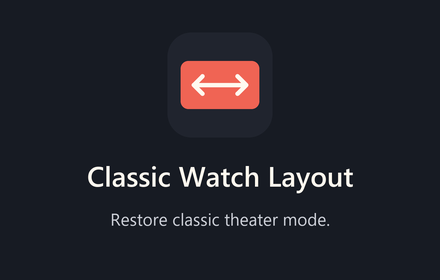
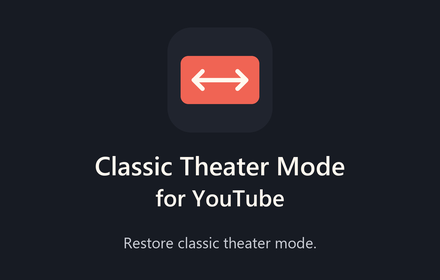
Rename extension to Classic Theater Mode for YouTube 0.1.1

diff --git a/extension/restore.js b/extension/restore.js
@@ -1,4 +1,4 @@
-/* Classic Watch Layout — local, page-lifetime layout selection only. */
+/* Classic Theater Mode for YouTube — local, page-lifetime layout selection only. */
 (() => {
   'use strict';
 

diff --git a/docs/privacy.md b/docs/privacy.md
@@ -1,10 +1,10 @@
-# Datenschutzerklärung – Classic Watch Layout
+# Datenschutzerklärung – Classic Theater Mode for YouTube
 
-**Stand: 08.10.2026 · Version 0.1.0**
+**Stand: 08.10.2026 · Version 0.1.1**
 
 ## Kurzfassung
 
-Classic Watch Layout korrigiert ausgewählte YouTube-Layoutflags lokal, damit die klassische Watch-Layout-/Theater-Auswahl wieder verwendet werden kann. Die Erweiterung verarbeitet keine Kontodaten und sendet keine Daten an den Entwickler oder an Dritte.
+Classic Theater Mode for YouTube korrigiert ausgewählte YouTube-Layoutflags lokal, damit die klassische Watch-Layout-/Theater-Auswahl wieder verwendet werden kann. Die Erweiterung verarbeitet keine Kontodaten und sendet keine Daten an den Entwickler oder an Dritte.
 
 ## Welche Daten werden verarbeitet?
 
@@ -37,4 +37,4 @@ Die Angaben im Entwickler-Dashboard müssen mit dem veröffentlichten Paket übe
 
 ## English summary
 
-Classic Watch Layout locally adjusts selected YouTube layout flags to restore the classic watch/theater layout. It does **not** collect, store, sell, or share personal data; it does not read or write cookies; it has no analytics, tracking, advertising, remote scripts, or external network requests. The only required site access is `https://www.youtube.com/*`, used to run the MV3 content script at document start. The script changes layout configuration locally and does not transmit page, account, or viewing data. Privacy and support contact: ctrwins@googlemail.com. If you contact support by email, the information you voluntarily provide is used to respond to your request, separately from the extension. YouTube, GitHub and the email provider have their own data practices.
+Classic Theater Mode for YouTube locally adjusts selected YouTube layout flags to restore the classic watch/theater layout. It does **not** collect, store, sell, or share personal data; it does not read or write cookies; it has no analytics, tracking, advertising, remote scripts, or external network requests. The only required site access is `https://www.youtube.com/*`, used to run the MV3 content script at document start. The script changes layout configuration locally and does not transmit page, account, or viewing data. Privacy and support contact: ctrwins@googlemail.com. If you contact support by email, the information you voluntarily provide is used to respond to your request, separately from the extension. YouTube, GitHub and the email provider have their own data practices.

diff --git a/docs/store-setup.md b/docs/store-setup.md
@@ -11,9 +11,11 @@ Stand: 08.10.2026. Die Erweiterung ist noch nicht im Store veröffentlicht. Entw
 - Falls noch nicht verifiziert: **Add email / Verify email** wählen und den Bestätigungslink in der E-Mail öffnen.
 - Eventuelle Hinweise zu Kontoverifizierung, Zwei-Faktor-Anmeldung oder Händlerstatus wahrheitsgemäß selbst bearbeiten. Die Registrierung allein bestätigt nicht, dass alle diese Punkte abgeschlossen sind.
 
-## 2. Neues Element / Add new item
+## 2. Paket hochladen
 
-[Erweiterungs-ZIP herunterladen](https://github.com/ctrwins/classic-watch-layout/releases/download/v0.1.0/classic-watch-layout-0.1.0.zip) und unverändert hochladen.
+[Erweiterungs-ZIP herunterladen](https://github.com/ctrwins/classic-watch-layout/releases/download/v0.1.1/classic-theater-mode-for-youtube-0.1.1.zip) und unverändert hochladen.
+
+Im bereits angelegten Store-Eintrag **Paket → Neues Paket hochladen** wählen. Name und Version werden aus dem Manifest übernommen. Keinen zweiten Eintrag für die Umbenennung anlegen. Nur bei der erstmaligen Einrichtung **Add new item** verwenden.
 
 Nicht das GitHub-Quellcodearchiv oder das Bilder-ZIP hochladen. Das richtige Paket enthält `manifest.json` direkt im Root.
 
@@ -21,7 +23,7 @@ Nicht das GitHub-Quellcodearchiv oder das Bilder-ZIP hochladen. Das richtige Pak
 
 | Feld | Eintrag |
 |---|---|
-| Name | `Classic Watch Layout` (aus dem Manifest) |
+| Name | `Classic Theater Mode for YouTube` (aus dem Manifest) |
 | Kurzbeschreibung | Aus dem Manifest; siehe unten |
 | Beschreibung / Detailed description | Den unten stehenden Satz kopieren |
 | Sprache / Language | English |
@@ -35,7 +37,7 @@ Nicht das GitHub-Quellcodearchiv oder das Bilder-ZIP hochladen. Das richtige Pak
 
 > A small extension that restores the classic theater mode for affected YouTube accounts.
 
-[Store-Bilder herunterladen](https://github.com/ctrwins/classic-watch-layout/releases/download/v0.1.0/classic-watch-layout-store-assets.zip), entpacken und einzeln zuordnen:
+[Store-Bilder herunterladen](https://github.com/ctrwins/classic-watch-layout/releases/download/v0.1.1/classic-theater-mode-for-youtube-store-assets-0.1.1.zip), entpacken und einzeln zuordnen. Bereits hochgeladene Bilder mit dem alten Namen ersetzen:
 
 | Bildfeld | Datei |
 |---|---|

diff --git a/docs/store-release.md b/docs/store-release.md
@@ -40,5 +40,5 @@ Die Einreichung unterliegt Googles Prüfung. Die Einhaltung der [Developer Progr
 1. Etwaige offene Kontoverifizierung und 2FA-Anforderung prüfen; Konto und Registrierungsgebühr sind erledigt.
 2. Die [Datenschutzerklärung](https://github.com/ctrwins/classic-watch-layout/blob/main/docs/privacy.md) im Dashboard verlinken. Kontaktadresse: `ctrwins@googlemail.com`; im Entwicklerkonto eintragen und gegebenenfalls verifizieren.
 3. Die vorbereiteten Grafiken im Store-Listing hochladen.
-4. Das geprüfte Erweiterungs-ZIP aus `dist/classic-watch-layout-0.1.0.zip` hochladen. Nur Erweiterungsdateien sind darin enthalten, mit Manifest im Root. Abschließende Verträglichkeitstests stehen noch aus.
+4. Das geprüfte Erweiterungs-ZIP aus `dist/classic-theater-mode-for-youtube-0.1.1.zip` im bestehenden Store-Eintrag als neues Paket hochladen. Nur Erweiterungsdateien sind darin enthalten, mit Manifest im Root. Abschließende Verträglichkeitstests stehen noch aus.
 5. Zweck, MAIN-Welt, YouTube-Zugriff und Datennutzung im Dashboard erläutern. Textvorlage: [Store-Beschreibung](store-listing.md).

diff --git a/readme.md b/readme.md
@@ -1,8 +1,8 @@
-# Classic Watch Layout
+# Classic Theater Mode for YouTube
 
 A small extension that restores the classic theater mode for affected YouTube accounts.
 
-![Classic YouTube theater mode restored by Classic Watch Layout](assets/store/screenshot-1280x800.png)
+![Classic YouTube theater mode restored by Classic Theater Mode for YouTube](assets/store/screenshot-1280x800.png)
 
 ## Installation
 
@@ -10,7 +10,7 @@ A small extension that restores the classic theater mode for affected YouTube ac
 
 ### Alternative: manual installation
 
-[![Download ZIP](assets/download.svg)](https://github.com/ctrwins/classic-watch-layout/releases/download/v0.1.0/classic-watch-layout-0.1.0.zip)
+[![Download ZIP](assets/download.svg)](https://github.com/ctrwins/classic-watch-layout/releases/download/v0.1.1/classic-theater-mode-for-youtube-0.1.1.zip)
 
 1. Download and extract the ZIP file.
 2. Open `chrome://extensions` or `brave://extensions`, enable **Developer mode**, and click **Load unpacked**.

diff --git a/changelog.md b/changelog.md
@@ -1,5 +1,11 @@
 # Changelog
 
+## 0.1.1
+
+- Renamed the extension to **Classic Theater Mode for YouTube**.
+- Updated the README, privacy policy, store instructions and promotional images.
+- Updated the packaged downloads; layout behavior and permissions are unchanged.
+
 ## 0.1.0
 
 - Klassische YouTube-Watch-Auswahl über fünf gezielte Layoutflags.

diff --git a/docs/store-listing.md b/docs/store-listing.md
@@ -1,10 +1,10 @@
 # Beschreibung für den Chrome Web Store
 
-Entwurf für Version 0.1.0. Noch nicht eingereicht.
+Entwurf für Version 0.1.1. Noch nicht eingereicht.
 
 ## Name
 
-Classic Watch Layout
+Classic Theater Mode for YouTube
 
 ## Kurzbeschreibung
 
